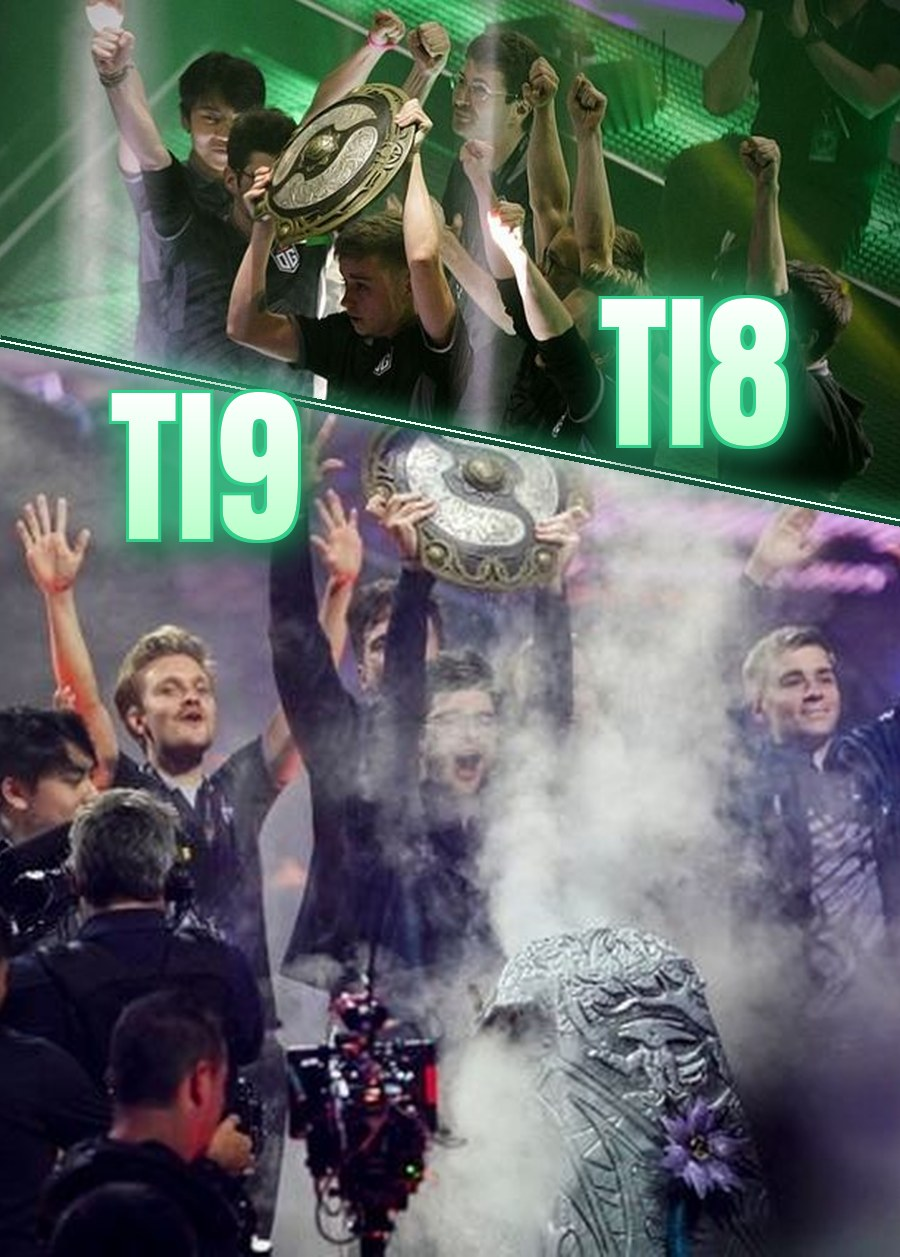
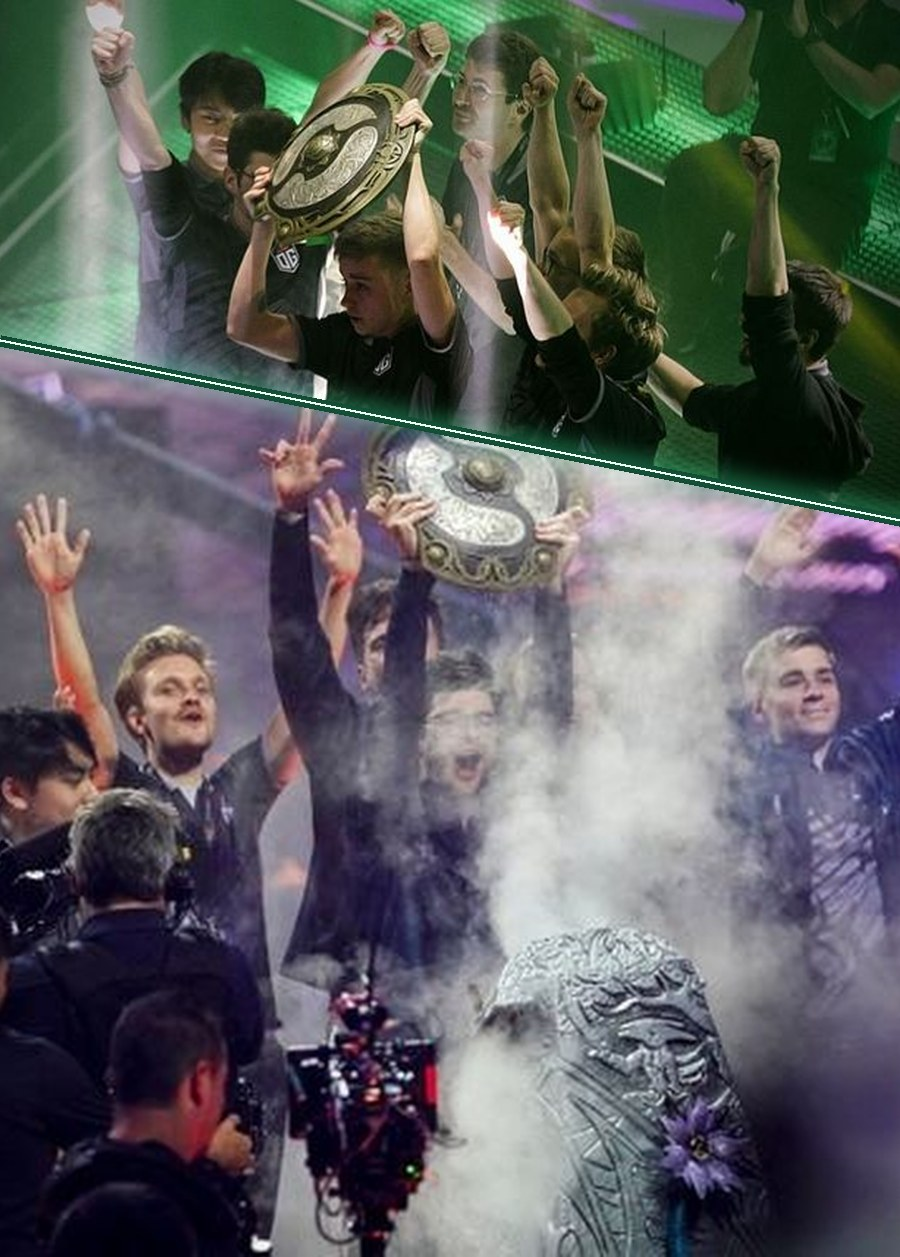
OG sans les textes TI8/TI9 ; photos de Serral et Bugha
Claude-Session: https://claude.ai/code/session_01Dg1JrLG6P1kF5UdtUDydXh

Changed region(s): [[0.0933, 0.2792, 0.3733, 0.4654], [0.6222, 0.2172, 0.9022, 0.3723]]

diff --git a/data/origines.js b/data/origines.js
@@ -165,7 +165,9 @@ window.ORIGINES = {
     "Na'Vi — Le premier The International": {"img": "assets/cartes/na-vi-le-premier-the-international.jpg", "color": "#f5d100", "photo": true},
     "BoxeR — L'Empereur des Terrans": {"img": "assets/cartes/boxer-l-empereur-des-terrans.jpg", "color": "#2a6fd8", "photo": true},
     "Flash — Le Dieu": {"img": "assets/cartes/flash-le-dieu.jpg", "color": "#e2012d", "photo": true},
-    "Grubby — La légende de Warcraft III": {"img": "assets/cartes/grubby-la-legende-de-warcraft-iii.jpg", "color": "#7a8aa8", "photo": true}
+    "Grubby — La légende de Warcraft III": {"img": "assets/cartes/grubby-la-legende-de-warcraft-iii.jpg", "color": "#7a8aa8", "photo": true},
+    "Serral — Premier champion non coréen": {"img": "assets/cartes/serral-premier-champion-non-coreen.jpg", "color": "#e8c24a", "photo": true},
+    "Bugha — Champion de la Fortnite World Cup": {"img": "assets/cartes/bugha-champion-de-la-fortnite-world-cup.jpg", "color": "#d9a93a", "photo": true}
   },
   cards: [
     ["mTw", "C", "Logo de club", "Multi-jeux", null, "Légende allemande des années 2000"],
